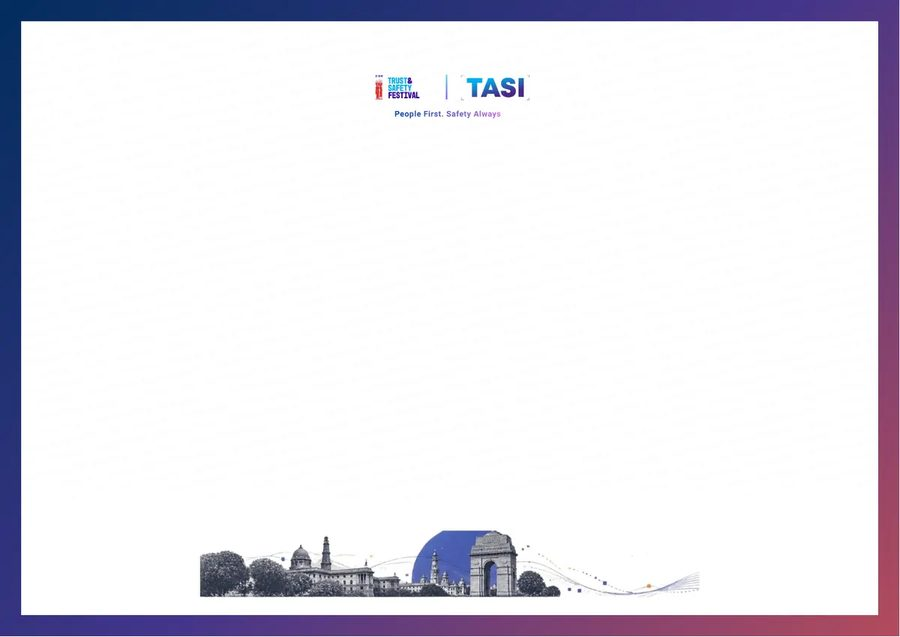
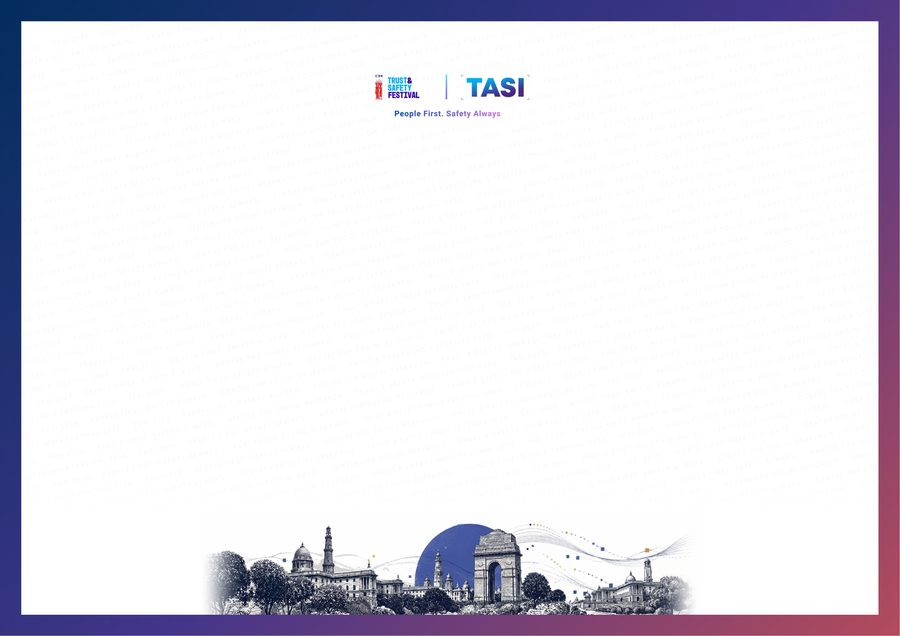
Certificates: sharp full-resolution Delhi skyline
Replaces the 1080px footer with the 4536px artwork (downscaled to 2400px),
faded to white at both ends. The bottom microtext now stops either side
of the skyline. Preview and share-card backgrounds regenerated.

Claude-Session: https://claude.ai/code/session_01QDfwv1k387J6mq4NYmVYdf

Changed region(s): [[0.0, 0.0, 1.0, 1.0], [0.4044, 0.1195, 0.4667, 0.1792]]

diff --git a/src/lib/certificate-pdf.js b/src/lib/certificate-pdf.js
@@ -145,26 +145,30 @@ export async function renderCertificatePdf({
 
   // Personal microtext: the holder's name and certificate ID in a fine line
   // just inside the top and bottom of the border. Too small to retype
-  // cleanly, and it must match the name and ID printed above.
+  // cleanly, and it must match the name and ID printed above. Along the
+  // bottom it stops either side of the skyline (66–231 mm).
   const micro = `${name.toUpperCase()} · ${code} · `;
   const microSize = 4.2;
-  let microLine = micro.repeat(
-    Math.ceil(x(277) / regular.widthOfTextAtSize(micro, microSize)) + 1
-  );
-  while (regular.widthOfTextAtSize(microLine, microSize) > x(277)) {
-    microLine = microLine.slice(0, -1);
-  }
   const microColor = rgb(67 / 255, 53 / 255, 138 / 255);
-  for (const top of [9.6, 201.6]) {
-    page.drawText(microLine, {
-      x: x(10),
+  const microRun = (left, width, top) => {
+    let line = micro.repeat(
+      Math.ceil(x(width) / regular.widthOfTextAtSize(micro, microSize)) + 1
+    );
+    while (regular.widthOfTextAtSize(line, microSize) > x(width)) {
+      line = line.slice(0, -1);
+    }
+    page.drawText(line, {
+      x: x(left),
       y: y(top),
       size: microSize,
       font: regular,
       color: microColor,
       opacity: 0.55,
     });
-  }
+  };
+  microRun(10, 277, 9.6);
+  microRun(10, 52, 201.6);
+  microRun(235, 52, 201.6);
 
   drawCentered(page, config.title.toUpperCase(), {
     font: semibold,

diff --git a/scripts/certificates/attendee-template.html b/scripts/certificates/attendee-template.html
@@ -22,5 +22,5 @@
   <img class="logo" src="logo.png" alt="" />
   <img class="sig" src="signature.png" alt="" />
   <div class="fade"></div>
-  <img class="footer" src="footer.jpeg" alt="" />
+  <img class="footer" src="footer-skyline.jpg" alt="" />
 </div></div></body></html>
